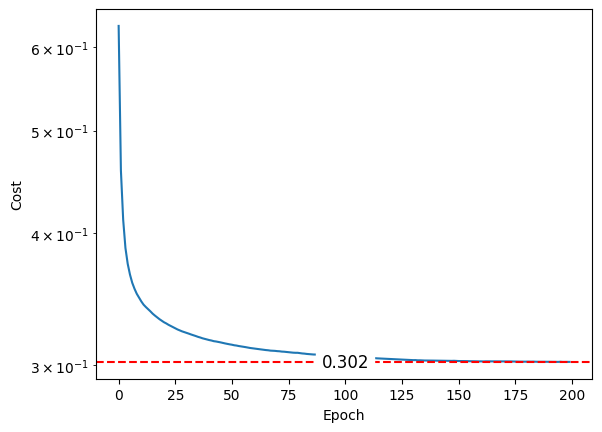
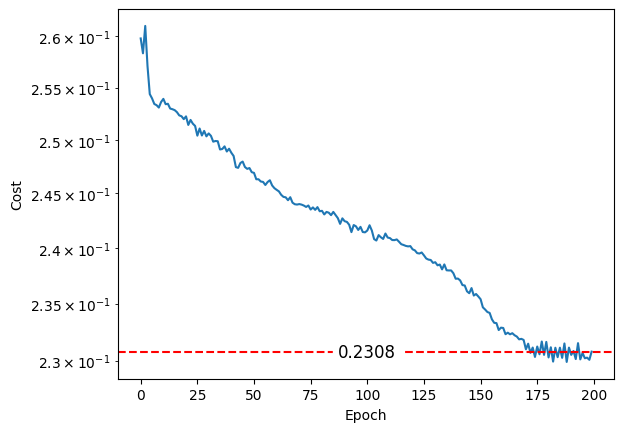
Updated assets

diff --git a/_posts/2024-07-07-HadamardParameterization.md b/_posts/2024-07-07-HadamardParameterization.md
@@ -614,16 +614,16 @@ Here is the output:
 Layer (type:depth-idx)                   Output Shape              Param #
 ==========================================================================================
 Network                                  [1, 1]                    --
-├─Linear: 1-1                            [1, 4]                    36
-├─ReLU: 1-2                              [1, 4]                    --
-├─Linear: 1-3                            [1, 2]                    10
-├─ReLU: 1-4                              [1, 2]                    --
-├─Linear: 1-5                            [1, 3]                    9
-├─ReLU: 1-6                              [1, 3]                    --
-├─Linear: 1-7                            [1, 1]                    4
+├─Linear: 1-1                            [1, 18]                   162
+├─ReLU: 1-2                              [1, 18]                   --
+├─Linear: 1-3                            [1, 15]                   285
+├─ReLU: 1-4                              [1, 15]                   --
+├─Linear: 1-5                            [1, 9]                    144
+├─ReLU: 1-6                              [1, 9]                    --
+├─Linear: 1-7                            [1, 1]                    10
 ==========================================================================================
-Total params: 59
-Trainable params: 59
+Total params: 601
+Trainable params: 601
 Non-trainable params: 0
 Total mult-adds (M): 0.00
 ==========================================================================================
@@ -634,7 +634,7 @@ Estimated Total Size (MB): 0.00
 ==========================================================================================
 ```
 
-Only 59 trainable parameters! So let's train its 59 remaining weights, now without any parametrizations:
+Only 601 trainable parameters! So let's train its 601 remaining weights, now without any parametrizations:
 
 ```python
 epoch_costs = train_model(train_ds, network, torch.nn.MSELoss(),
@@ -654,10 +654,8 @@ eval_network(network)
 The output is:
 
 ```python
-Test loss = 0.2864
+Test loss = 0.2385
 ```
-
-Again, it does not appear to overfit.
 
 ## How should we work in practice?
 
